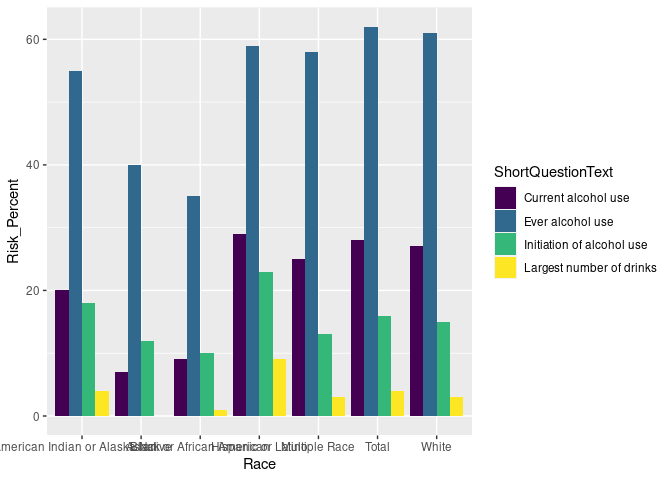
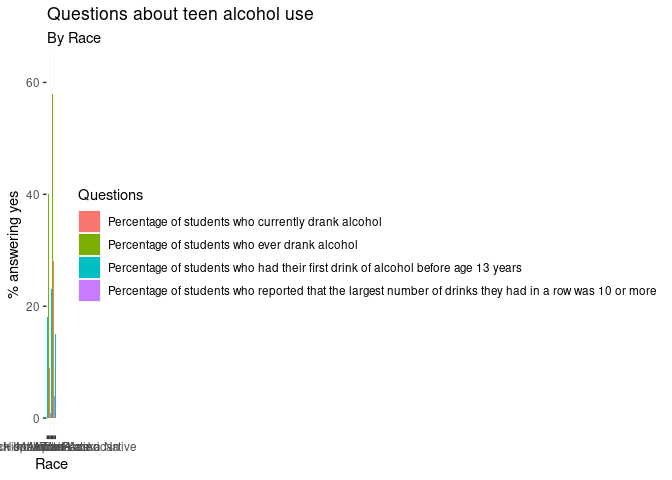
Update Alc Visualization

diff --git a/proposal/proposal.md b/proposal/proposal.md
@@ -113,7 +113,13 @@ Alc_data_frame %>%
   filter(Race != "Native Hawaiian or Other Pacific Islander") %>% 
 ggplot(aes(x= Race, y = Risk_Percent, fill = ShortQuestionText)) +
    geom_col(position="dodge", stat="identity") +
-   scale_fill_viridis_d()
+  scale_fill_discrete(name="Questions",
+                    breaks=c("Current alcohol use", "Ever alcohol use", "Initiation of alcohol use", "Largest number of drinks"),
+                     labels = c("Percentage of students who currently drank alcohol", "Percentage of students who ever drank alcohol", "Percentage of students who had their first drink of alcohol before age 13 years", "Percentage of students who reported that the largest number of drinks they had in a row was 10 or more" )) +
+  labs(x = "Race", y = "% answering yes",
+    title = "Questions about teen alcohol use",
+    subtitle = "By Race",
+    fill = "Severity") 
 ```
 
     ## Warning in geom_col(position = "dodge", stat = "identity"): Ignoring unknown
